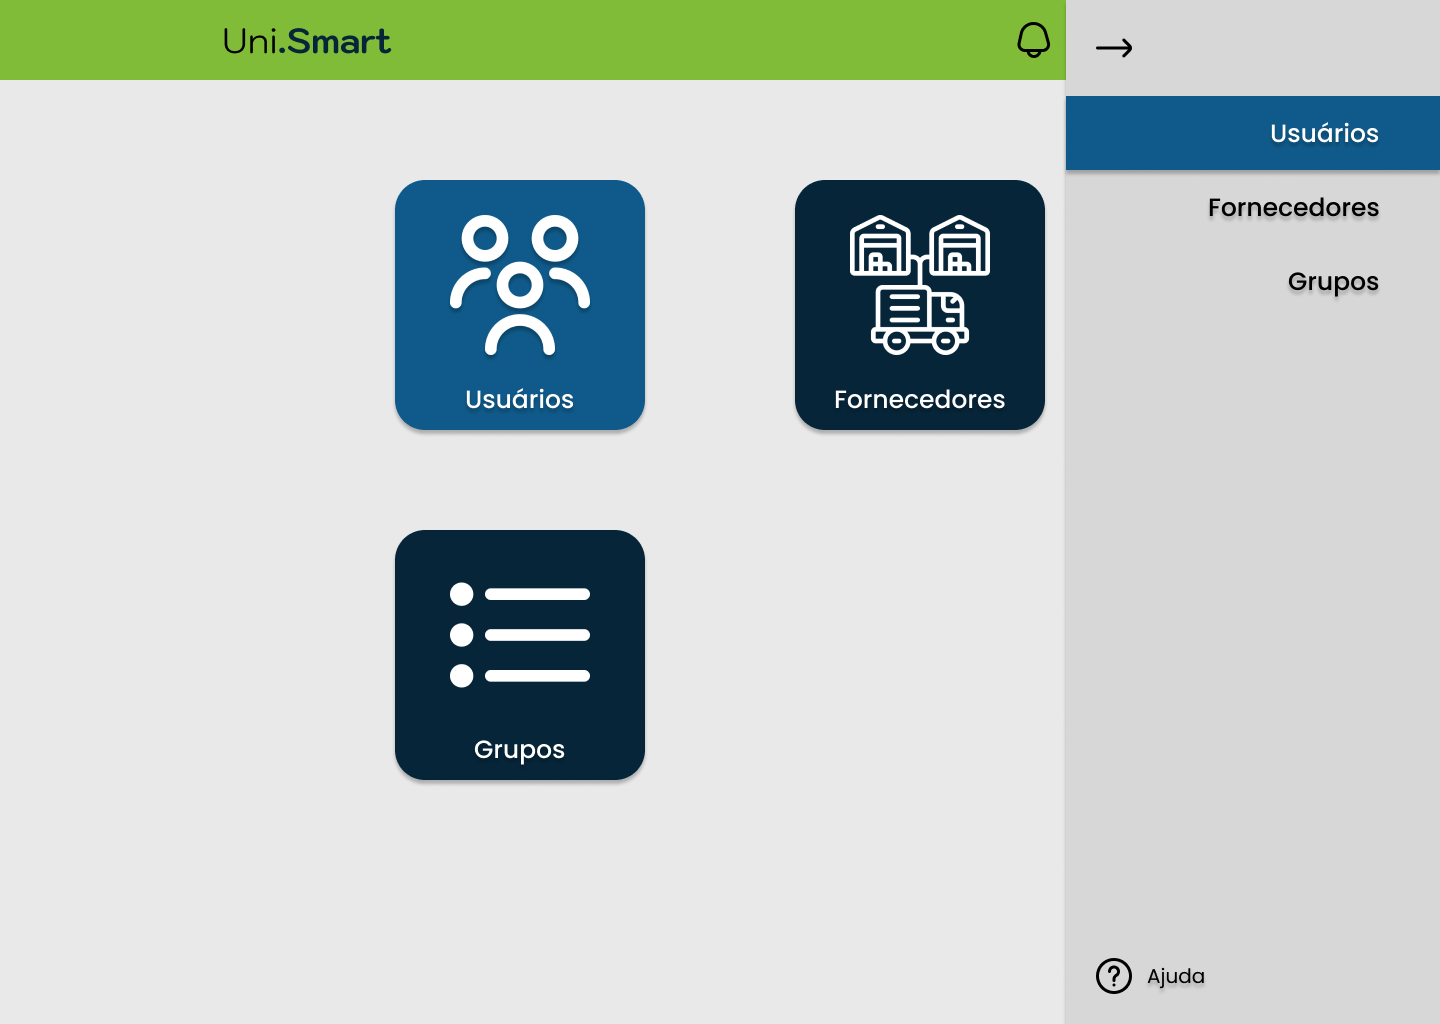
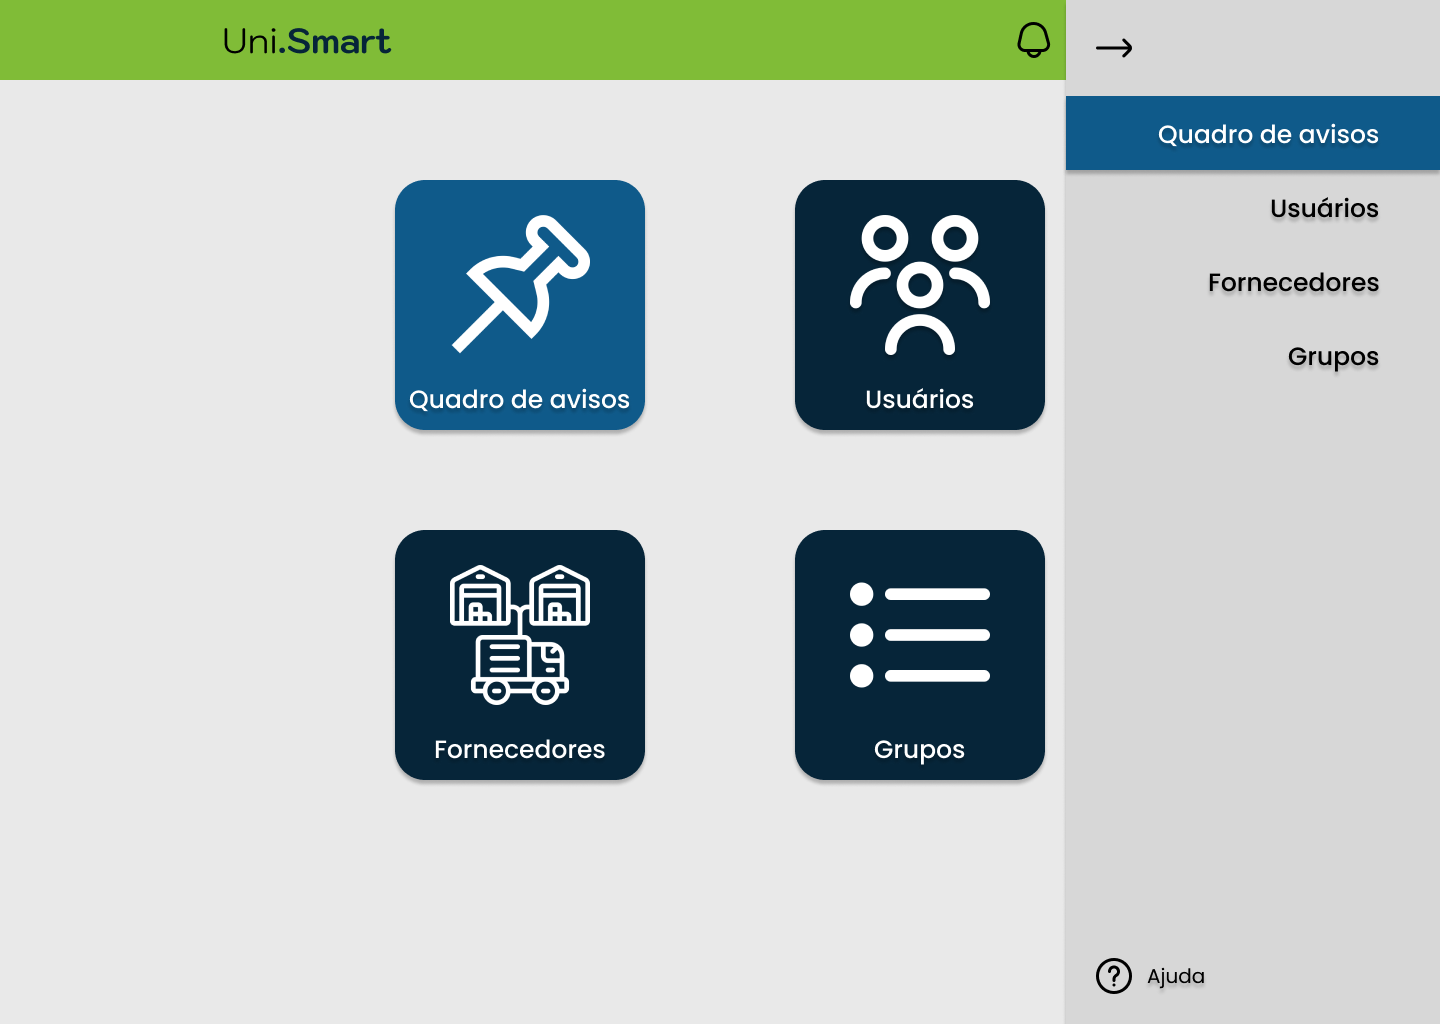
Mais telas

diff --git a/README.md b/README.md
@@ -35,15 +35,53 @@ As telas da interface Web GUI foram desenvolvidas utilizando a ferramenta online
 
 ![Tela de Login](<Protótipos/Figma/Página inicial.png>)
 
+### Minha Conta
+
+![Minha Conta](<Protótipos/Figma/Minha conta.png>)
+
+### Suporte
+
+![Suporte](Protótipos/Figma/Suporte.png)
+
+### Calendário
+
+![Calendário](Protótipos/Figma/Calendário.png)
+
 ## Dashboard do Funcionário (Administrador)
 
 ![Dashboard do Funcionário](<Protótipos/Figma/Dashboard (funcionário).png>)
 ![Dashboard do Funcionário - Menu](<Protótipos/Figma/Dashboard (funcionário - menu aberto).png>)
 
+## Quadro de Avisos
+
+![Quadro de Avisos](<Protótipos/Figma/Quadro de avisos (funcionário).png>)
+
+## Usuários
+
+![Usuários](Protótipos/Figma/Usuários.png)
+![Usuários - Editar/Criar](Protótipos/Figma/Usuários-editar.png)
+
+## Fornecedores
+
+![Fornecedores](Protótipos/Figma/Fornecedores.png)
+![Fornecedores - Editar/Criar](Protótipos/Figma/Fornecedores-editar.png)
+
+## Grupos
+
+![Grupos](Protótipos/Figma/Grupos.png)
+
 ### Dashboard do Professor
 
 ![Dashboard do Professor](<Protótipos/Figma/Dashboard (professor).png>)
 ![Dashboard do Professor - Menu](<Protótipos/Figma/Dashboard (professor - menu aberto).png>)
+
+### Turmas
+
+![Turmas](Protótipos/Figma/Turmas.png)
+
+### Alunos
+
+![Alunos](Protótipos/Figma/Alunos.png)
 
 ### Dashboard do Aluno
 
@@ -55,10 +93,6 @@ As telas da interface Web GUI foram desenvolvidas utilizando a ferramenta online
 ![Quadro de Notas](<Protótipos/Figma/Quadro de Notas.png>)
 ![Quadro de Notas - Detalhes](<Protótipos/Figma/Quadro de Notas - Detalhes.png>)
 
-### Calendário
-
-![Calendário](Protótipos/Figma/Calendário.png)
-
 ### Disciplinas
 
 ![Disciplinas](Protótipos/Figma/Disciplinas.png)
@@ -67,9 +101,13 @@ As telas da interface Web GUI foram desenvolvidas utilizando a ferramenta online
 
 ![Matrícula](Protótipos/Figma/Matricula.png)
 
-### Suporte
+### Agendamento de Provas
 
-![Suporte](Protótipos/Figma/Suporte.png)
+![Matrícula](<Protótipos/Figma/Agendamento de Provas.png>)
+
+### Financeiro
+
+![Matrícula](Protótipos/Figma/Financeiro.png)
 
 > [Apresentação de telas na plataforma](https://www.figma.com/proto/aO0cKZjGMOtKTbFmtgoUG5/Projeto-Integrador?type=design&node-id=26-60&t=qMezBdqddBhRHF38-1&scaling=min-zoom&page-id=0%3A1&mode=design)
 
